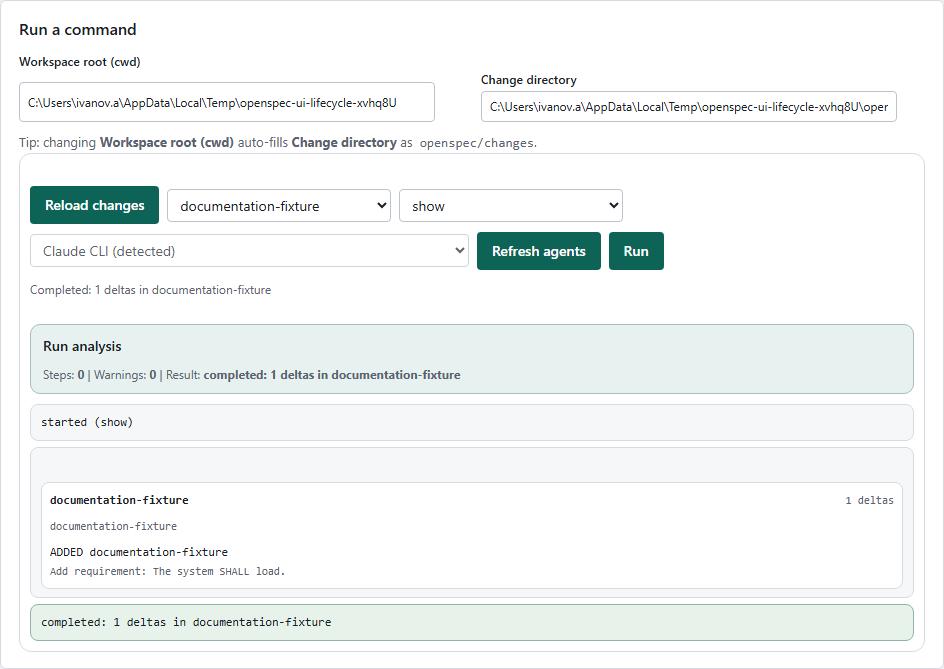
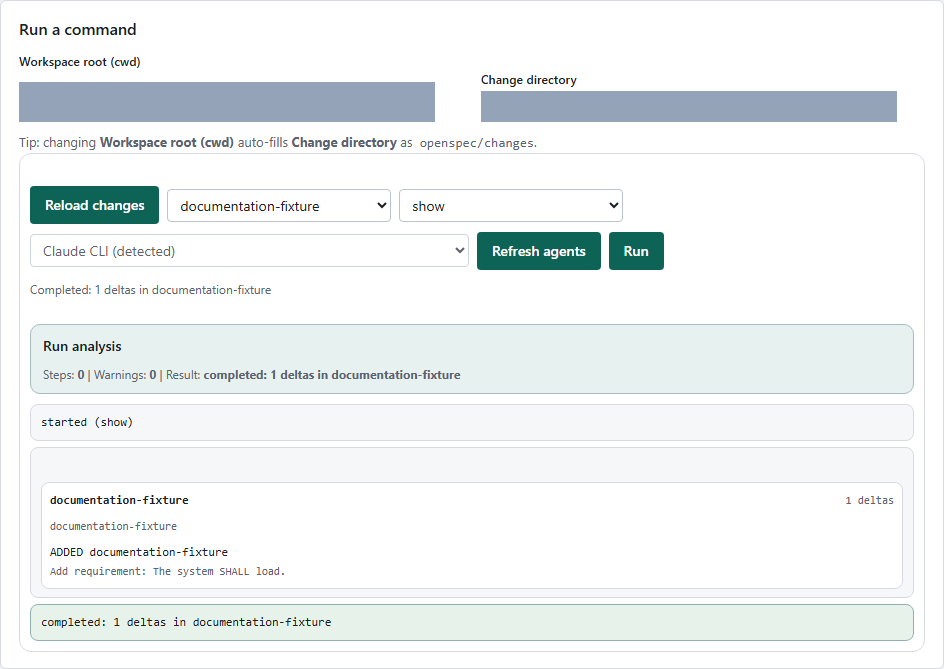
No capture publishes the machine it was taken on
The fixture workspace lives under a temporary directory whose path
carries the account name of whoever regenerates the pictures, and two of
the new captures published it: the command runner's two path fields, and
the summary's "Root:" line.

Both are masked with a flat grey rather than cropped. The field is part
of the screen, and a reader should be able to see that something was
covered instead of concluding the screen has no such field. In the
summary line only the path is masked — the change and spec counts beside
it are what the line is for.

The summary capture also now waits for its "Load summary" button to come
back from "Loading...", so the picture is of a loaded screen rather than
a loaded screen with a busy control on it.

Changed region(s): [[0.4915, 0.1196, 0.9523, 0.1794], [0.0, 0.1196, 0.4608, 0.1794]]

diff --git a/packages/server/e2e/documentation-screenshots.spec.ts b/packages/server/e2e/documentation-screenshots.spec.ts
@@ -17,7 +17,7 @@
 // a changed screen fail here instead of producing a picture of the wrong
 // thing. See every-screenshot-is-taken-by-a-spec.
 
-import { expect, test } from "@playwright/test";
+import { expect, test, type Locator, type Page } from "@playwright/test";
 import { rm, writeFile } from "node:fs/promises";
 import path from "node:path";
 import { fileURLToPath } from "node:url";
@@ -27,6 +27,20 @@ import { createFakeAgentRunner } from "./fixtures/fake-agent-runner.js";
 
 const CHANGE_NAME = "documentation-fixture";
 const IMAGES_DIR = path.join(path.dirname(fileURLToPath(import.meta.url)), "..", "..", "..", "docs", "images", "standalone");
+
+/** A flat grey, so a masked field reads as "this was covered
+ * deliberately" rather than as a rendering fault. Playwright's own
+ * default is magenta, which in a documentation picture looks like a
+ * broken control. */
+const MASK_COLOR = "#94a3b8";
+
+/** The fields that show where the fixture workspace lives. Masked in
+ * every picture that contains them: the path is a temporary directory
+ * under the home of whoever regenerated the picture, and a published
+ * document should not carry that. Nothing a reader needs is in it. */
+function workspacePaths(page: Page): Locator[] {
+  return [page.getByLabel("Workspace root (cwd)"), page.getByLabel("Change directory")];
+}
 
 test.describe("standalone documentation screenshots", () => {
   let workspaceRoot: string;
@@ -100,16 +114,33 @@ test.describe("standalone documentation screenshots", () => {
       await page.getByTestId("run-button").click();
       await expect(page.getByTestId("event-log")).toBeVisible({ timeout: 20000 });
       await expect(page.getByTestId("run-status-label")).toContainText("Completed", { timeout: 20000 });
+      // The fixture lives in a temporary directory whose path contains
+      // the account name of whoever regenerated the picture. That is not
+      // something a published document should carry, and the path says
+      // nothing a reader needs, so it is masked rather than photographed.
       await page.locator("section", { has: page.getByRole("heading", { name: "Run a command" }) })
-        .screenshot({ path: path.join(IMAGES_DIR, "run-command.png") });
+        .screenshot({ path: path.join(IMAGES_DIR, "run-command.png"), mask: workspacePaths(page), maskColor: MASK_COLOR });
 
       // 2. The summary. Loading it shells out to the `openspec` CLI, the
       // same call standalone.spec.ts waits 15s for on a loaded runner.
       await page.getByRole("tab", { name: "OpenSpec view summary" }).click();
       await page.getByRole("button", { name: "Load summary" }).click();
       await expect(page.getByTestId("openspec-overview")).toContainText(CHANGE_NAME, { timeout: 20000 });
+      // Waited for after the content arrives: the button says "Loading..."
+      // until the last of the three CLI calls returns, and a picture
+      // taken before then shows a loaded screen with a busy control on
+      // it.
+      await expect(page.getByRole("button", { name: "Load summary" })).toBeEnabled({ timeout: 20000 });
       await page.locator("section", { has: page.getByRole("heading", { name: "OpenSpec view summary" }) })
-        .screenshot({ path: path.join(IMAGES_DIR, "view-summary.png") });
+        .screenshot({
+          // Same reason as above: the summary's meta line prints the
+          // workspace root it read. Only the path is masked — the
+          // counts beside it are what the line is for — and it is the
+          // first `strong` in that paragraph.
+          path: path.join(IMAGES_DIR, "view-summary.png"),
+          mask: [page.getByTestId("openspec-overview").locator("p.openspec-overview-meta strong").first()],
+          maskColor: MASK_COLOR,
+        });
 
       // 3. The diff preview. Its content is the panel's own fixture, so
       // this waits on the rendered diff rather than on a load.

diff --git a/openspec/changes/every-screenshot-is-taken-by-a-spec/tasks.md b/openspec/changes/every-screenshot-is-taken-by-a-spec/tasks.md
@@ -128,6 +128,17 @@ mechanical check to keep four pictures fresh that nothing shows.
   `scripts/screenshot-baseline.json`. No agent here can drive the
   editor's own tree views and menus or capture its window; that is the
   reason they are baselined rather than captured.
+- [x] 3.6 No capture publishes the machine it was taken on. The fixture
+  lives in a temporary directory whose path carries the account name of
+  whoever regenerated the picture, and three captures showed it: the
+  two path fields in the command runner, and the summary's meta line.
+  Each is masked with a flat grey (`mask`/`maskColor`), not cropped —
+  the field is part of the screen, and a reader should see that
+  something was covered rather than that the screen has no such field.
+  Only the path is masked in the summary line; the counts beside it are
+  what the line is for. Added after the captures were reviewed: the
+  first run published `C:\Users\<account>\AppData\Local\Temp\...` in two
+  pictures.
 
 ## 4. Verification
 
